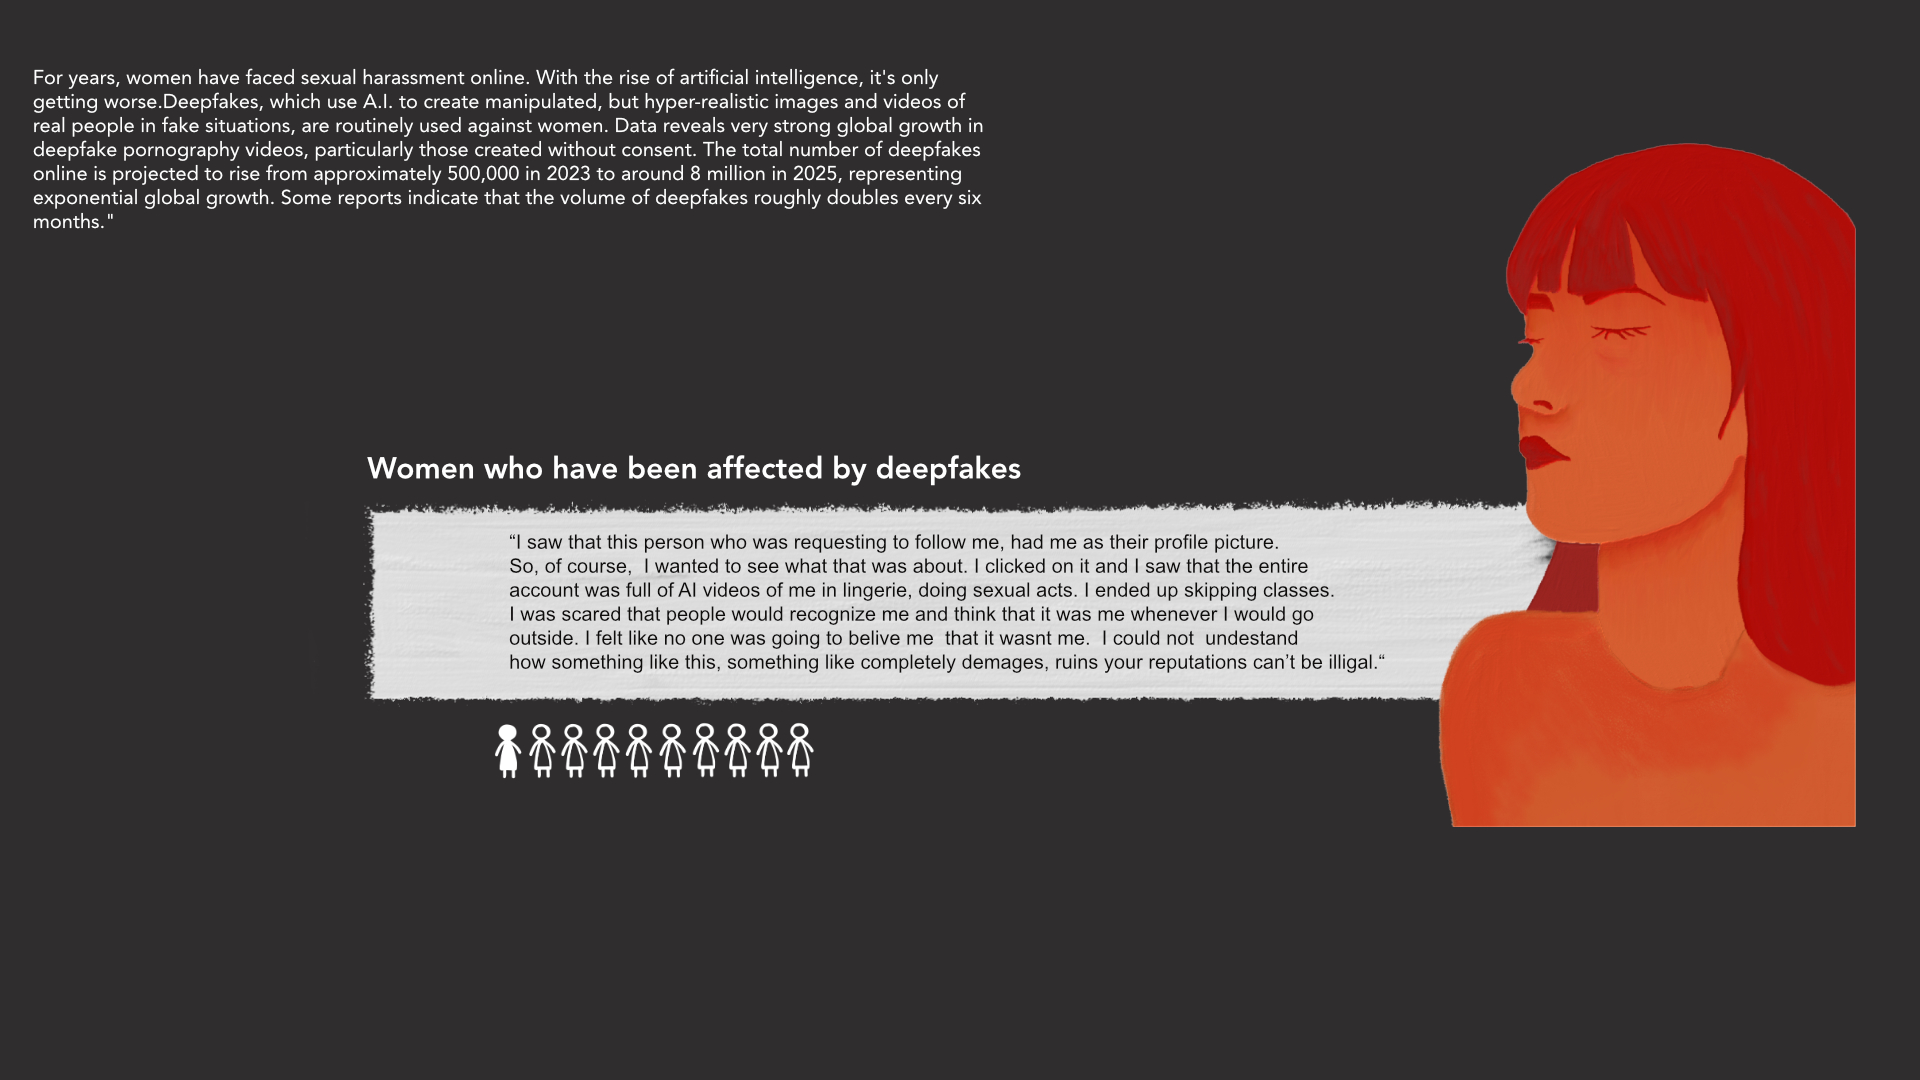
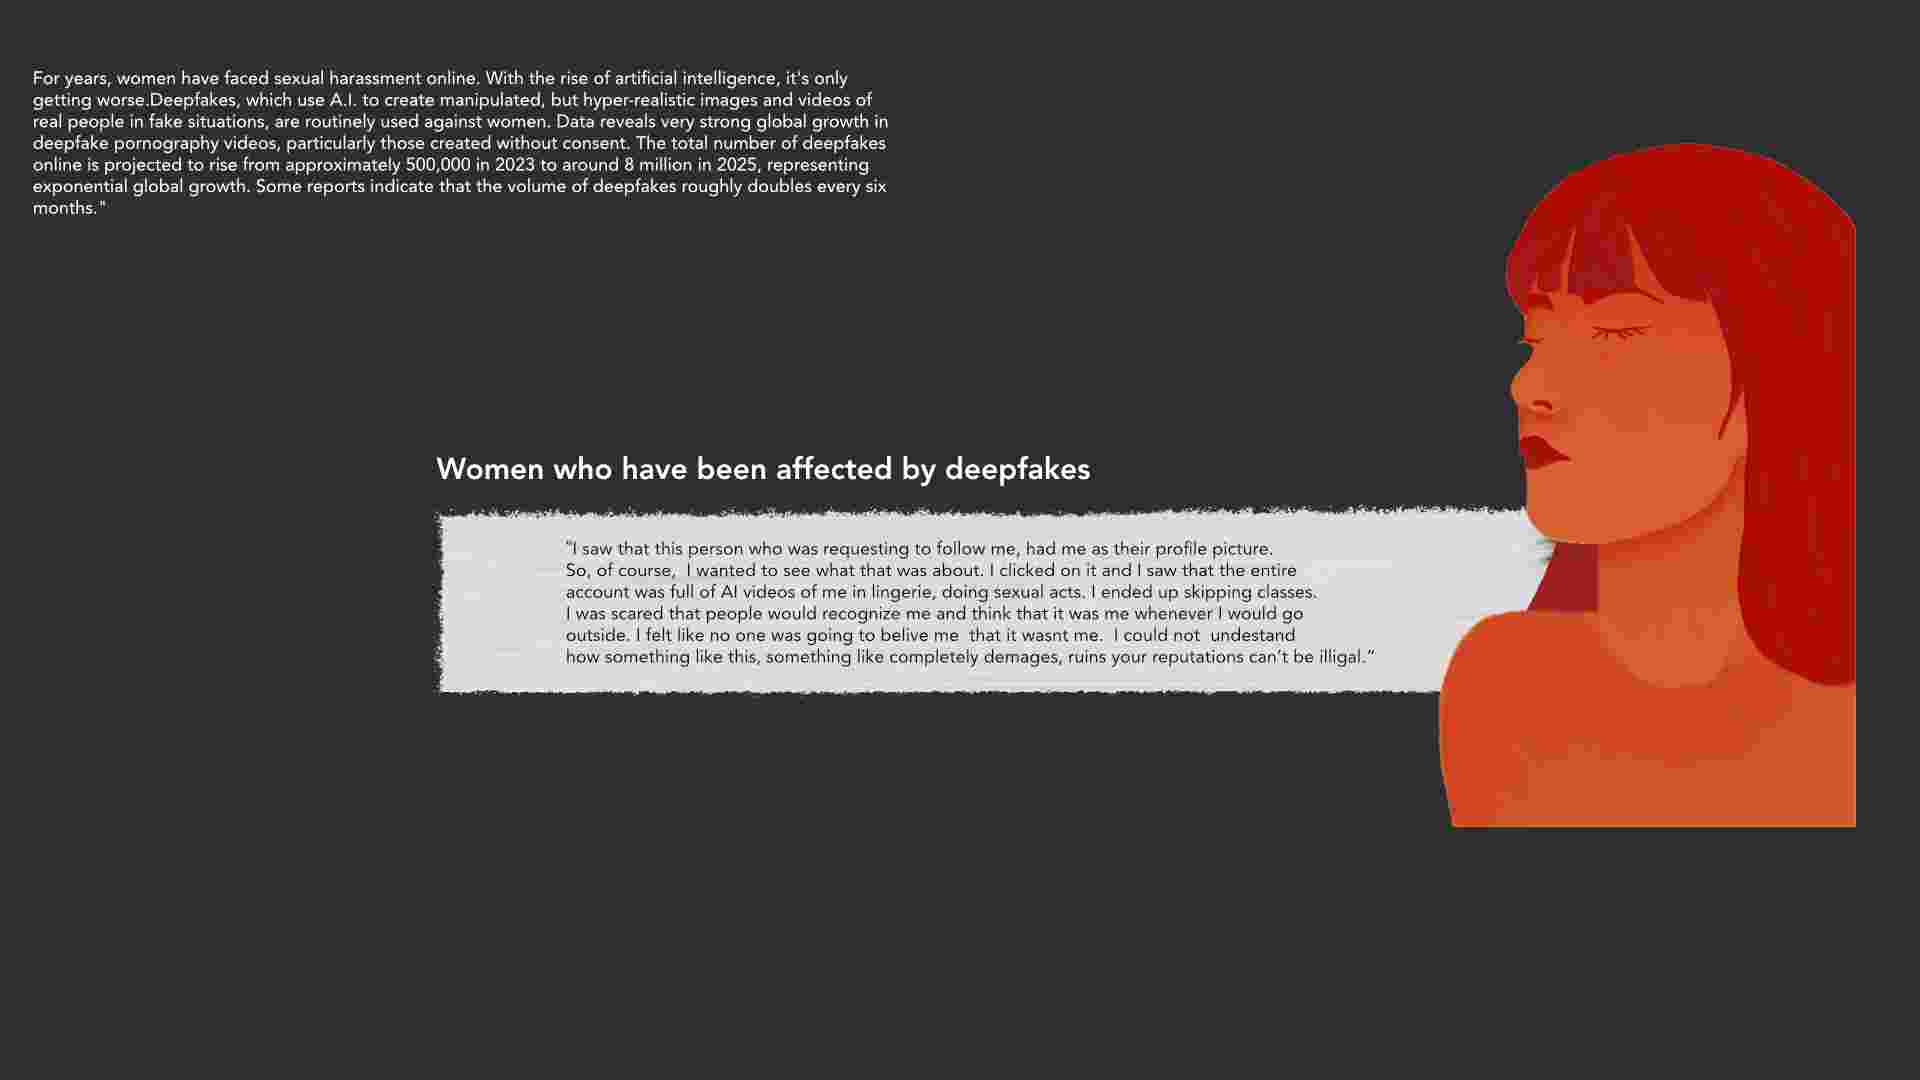
text

diff --git a/sketch.js b/sketch.js
@@ -624,14 +624,14 @@ function drawpage2(){
   textFont(fließtext);
   textSize(cachedValues.textSizeFließtext); // Korrigiert: gleiche Größe wie oben
   textLeading(cachedValues.textLeading); // Korrigiert: gleiche Zeilenhöhe wie oben
-  text('For years, women have faced sexual harassment online. With the rise of artificial intelligence its only\ngetting worse.Deepfakes, which use A.I. to create manipulated, but hyper-realistic images and videos of\nreal people in fake situations, are routinely used against women. Data reveals very strong global growth in\ndeepfake pornography videos, particularly those created without consent. The total number of deepfakes\nonline is projected to rise from approximately 500,000 in 2023 to around 8 million in 2025, representing\nexponential global growth. Some reports indicate that the volume of deepfakes roughly doubles every six\nmonths.',
-  windowWidth/31.4, windowWidth/1.44);
+  text('For years, women have faced sexual harassment online. With the rise of artificial intelligence, its only\ngetting worse.Deepfakes, which use A.I. to create manipulated, but hyper-realistic images and videos of\nreal people in fake situations, are routinely used against women. Data reveals very strong global growth in\ndeepfake pornography videos, particularly those created without consent. The total number of deepfakes\nonline is projected to rise from approximately 500,000 in 2023 to around 8 million in 2025, representing\nexponential global growth. Some reports indicate that the volume of deepfakes roughly doubles every six\nmonths.',
+  windowWidth/25.5, windowWidth/1.4395);
 
   textFont(headline);
   textSize(windowWidth/69); 
   textLeading(cachedValues.textLeading); 
   text('Women who have been affected by deepfakes',
-  windowWidth/4.968, windowWidth/1.129);
+  windowWidth/4.258, windowWidth/1.129);
 
 
   ////////////ZITATE//////////////
@@ -643,7 +643,7 @@ function drawpage2(){
   textSize(cachedValues.textSizeFließtext); // Korrigiert: gleiche Größe wie oben
   textLeading(cachedValues.textLeading); // Korrigiert: gleiche Zeilenhöhe wie oben
   text('“I saw that this person who was requesting to follow me, had me as their profile picture.\nSo, of course,  I wanted to see what that was about. I clicked on it and I saw that the entire\naccount was full of AI videos of me in lingerie, doing sexual acts. I ended up skipping classes.\nI was scared that people would recognize me and think that it was me whenever I would go\noutside. I felt like no one was going to belive me  that it wasnt me.  I could not  undestand\nhow something like this, something like completely demages, ruins your reputations can’t be illigal.“',
-  windowWidth/3.6, windowWidth/1.083);
+  windowWidth/3.36, windowWidth/1.084);
 
   //Zitat 2
 
